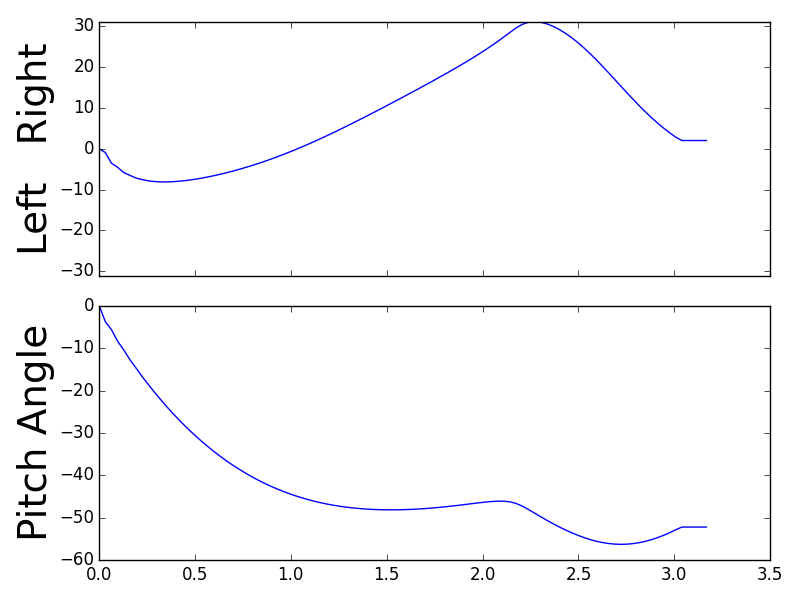
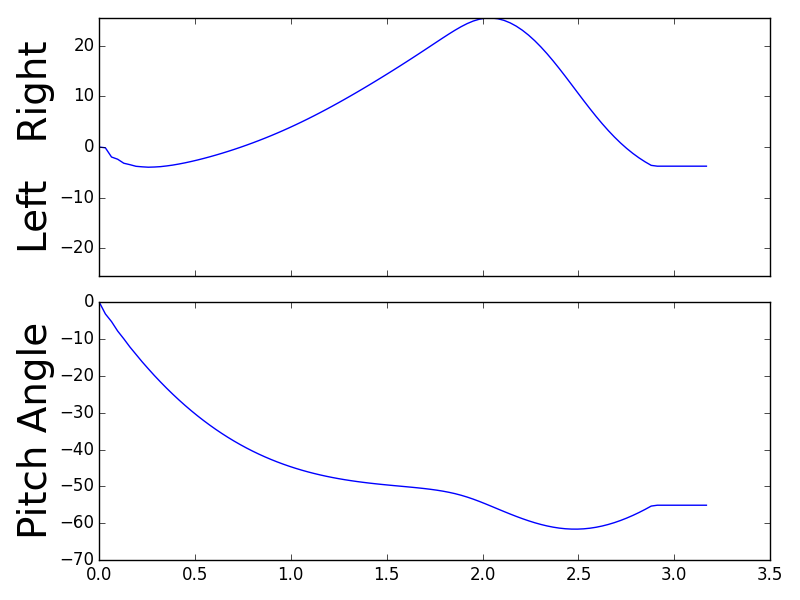
found two bugs that were causing flights to be incorrect. Missing factor of 10 in CR1x and wrong sign in the equation for CM where CM0 was used

diff --git a/Animation/animation_routines.py b/Animation/animation_routines.py
@@ -1,44 +1,8 @@
 import numpy as np
 import matplotlib.animation as animation
 import matplotlib.pyplot as plt
+import matplotlib as mpl
 from mpl_toolkits.mplot3d import Axes3D
-
-def make_plots(positions, n_times):
-	print "\nNow running animation routines"
-
-	#Parse out all of the coordinates from the positions array
-	t = positions[:,0]
-	x = positions[:,1]
-	y = positions[:,2]
-	z = positions[:,3]
-	vx = positions[:,4]
-	vy = positions[:,5]
-	vz = positions[:,6]
-	phi = positions[:,7]
-	theta = positions[:,8]
-	phiDot = positions[:,9]
-	thetaDot = positions[:,10]
-	gammaDot = positions[:,11]
-	gamma = positions[:,12]
-
-	#Find the indices where the disc is still in the air
-	in_air_indexes = np.where(z>0)
-	print "Useful indicies: ",in_air_indexes[0][0]," through ",in_air_indexes[0][-1]
-
-	#for i in xrange(0,len(in_air_indexes[0])):
-	for i in xrange(0,len(t)):
-		#print x[i],y[i],z[i],t[i]
-		#print phi[i],theta[i]
-		print positions[i]
-
-	#Plot Z vs X
-	#plot_Z_vs_X(x,z,in_air_indexes)
-
-	#Plot phi(t) and theat(t)
-	#plot_angles(phi,theta,t,in_air_indexes)
-
-	#End the plotting
-	return
 
 def plot_Z_vs_X(x,z,ind):
 	print "\tPlotting Z vs X"
@@ -46,25 +10,74 @@ def plot_Z_vs_X(x,z,ind):
 	ax1 = plt.subplot(111)
 	ax1.plot(x[ind],z[ind])
 	ax1.set_ylim(0,max(z[ind]))
+	ax1.set_xlabel("X (m)")
+	ax1.set_ylabel("Z (m)")
+	plt.show()
+	return
+
+def plot_X_vs_Y(x,y,ind):
+	print "\tPlotting Y vs X"
+	fig = plt.figure()
+	ax1 = plt.subplot(111)
+	ax1.plot(x[ind],y[ind])
+	ax1.set_ylim(0,max(y[ind]))
+	ax1.set_xlabel("X (m)")
+	ax1.set_ylabel("Y (m)")
 	plt.show()
 	return
 
 def plot_angles(phi,theta,t,ind):
 	print "\tPlotting phi(t) and theta(t)"
-	radians = np.pi/180. #used to convert to radians
-	degrees = 180./np.pi #used to convert to degrees
+	max_phi = max(np.fabs(phi[ind]))
+	max_theta = max(np.fabs(theta[ind]))
 
 	fig = plt.figure()
 	plt.subplots_adjust(hspace=0.001)
 
 	ax1 = plt.subplot(211)
-	ax1.plot(t[ind],phi[ind]*degrees)
+	ax1.plot(t[ind],phi[ind])
 	ax1.set_xticklabels([])
-	ax1.set_ylim(-180,180)
+	ax1.set_ylim(-max_phi,max_phi)
+	ax1.set_xlabel("Time (s)")
+	ax1.set_ylabel(r"$\phi(t)$")
 
 	ax2 = plt.subplot(212)#,sharex=ax1)
-	ax2.plot(t,theta*degrees)
-	ax2.set_ylim(-90,90)
+	ax2.plot(t[ind],theta[ind])
+	ax2.set_ylim(-max_theta,max_theta)
+	ax2.set_xlabel("Time (s)")
+	ax2.set_ylabel(r"$\theta(t)$")
+
 	fig.tight_layout()
+	plt.show()
+	return
+
+def update_3D_trajectory(num,traj_lines,lines):
+	for line, data in zip(lines,traj_lines):
+		line.set_data(data[0:2,:num])
+		line.set_3d_properties(data[2,:num])
+	return line
+
+#This creates a 3D trajectory of the throw
+def plot_3D_trajectory(x,y,z,nsteps):
+	print "\tPlotting 3D trajectory"
+	mpl.rcParams['legend.fontsize'] = 10
+	fig = plt.figure()
+	ax = fig.gca(projection='3d')
+	ax.set_xlim3d(min(x),max(x))
+	ax.set_ylim3d(min(y),max(y))
+	ax.set_zlim3d(0,max(z))
+	fig.tight_layout()
+	#The next line plots the trajectory immediately
+	#full_line = ax.plot(x,y,z,label="Flight path",c='pink')
+	lines = [ax.plot(x,y,z,label="Flight Path",c="b")[0],\
+			 ax.plot(x,y,z*0,c="g",linestyle='--')[0],\
+			 ax.plot(x,y*0+max(y),z,c="r",linestyle=":")[0]]
+	ax.set_xlabel('X (m)')
+	ax.set_ylabel('Y (m)')
+	ax.set_zlabel('Z (m)')
+	trajectory = np.array([[x,y,z],[x,y,z*0],[x,y*0+max(y),z]])
+	lines_animation = animation.FuncAnimation(fig,update_3D_trajectory,\
+			nsteps,fargs=(trajectory,lines),interval=0.0,blit=False)
+	#lines_animation.save('example_throw.gif',fps=30)
 	plt.show()
 	return

diff --git a/src/equations_of_motion.c b/src/equations_of_motion.c
@@ -40,6 +40,10 @@ void add(double*A,double *B,double *C){
   return;
 }
 
+void print_vec(double*A){
+  printf("A[0]=%e\tA[1]=%e\tA[2]=%e\tlen=%e\n",A[0],A[1],A[2],sqrt(dot(A,A)));
+}
+
 void equations_of_motion(double*positions,double*derivs,
 			    double t,
 			    double*coeffs){
@@ -99,16 +103,16 @@ void equations_of_motion(double*positions,double*derivs,
   //Find the velocity components in the body frame
   double v[]={vx,vy,vz};
   double v_dot_C3 = dot(v,C3);
-  double v_plane[] = {v[0]*(1-v_dot_C3),v[1]*(1-v_dot_C3),v[2]*(1-v_dot_C3)};
+  double v_plane[] = {v[0]-C3[0]*v_dot_C3, v[1]-C3[1]*v_dot_C3, v[2]-C3[2]*v_dot_C3};
 
   //Find the length of these various velocities
   double norm_v_plane = sqrt(dot(v_plane,v_plane));
   double norm_v = sqrt(dot(v,v));
-  double norm_vp = sqrt(dot(v_plane,v_plane));
+  //double norm_vp      = sqrt(dot(v_plane,v_plane));
 
   //Find the unit vectors for various directions
   double v_hat[] = {v[0]/norm_v,v[1]/norm_v,v[2]/norm_v};
-  double vp_hat[] = {v_plane[0]/norm_vp,v_plane[1]/norm_vp,v_plane[2],norm_vp};
+  double vp_hat[] = {v_plane[0]/norm_v_plane,v_plane[1]/norm_v_plane,v_plane[2]/norm_v_plane};
   double ulat[3];
   cross(C3,vp_hat,ulat);
 
@@ -124,13 +128,14 @@ void equations_of_motion(double*positions,double*derivs,
   double z_C_hat[] = {C3[0],C3[1],C3[2]};
 
   //Calculate the lift force
-  double Flift_amp = CL(alpha,CL0,CL1)*Area*rho*dot(v,v)/2.;
+  double aerodynamic_Force_amp = Area*rho*dot(v,v)/2;
+  double Flift_amp = CL(alpha,CL0,CL1)*aerodynamic_Force_amp;
   double Flift[3];
   cross(v_hat,y_C_hat,Flift);
   Flift[0] = Flift[0]*Flift_amp; Flift[1] = Flift[1]*Flift_amp; Flift[2] = Flift[2]*Flift_amp;
 
   //Calculate the drag force
-  double Fdrag_amp = CD(alpha,CD0,CD1)*Area*rho*dot(v,v)/2.;
+  double Fdrag_amp = CD(alpha,CD0,CD1)*aerodynamic_Force_amp;
   double Fdrag[]={-Fdrag_amp*v_hat[0],-Fdrag_amp*v_hat[1],-Fdrag_amp*v_hat[2]};
 
   //Calculate the gravitational force
@@ -180,7 +185,7 @@ void equations_of_motion(double*positions,double*derivs,
   for(i=0;i<3;i++){
     temp1 = 0;
     temp2 = 0;
-    for(j=0;j<3;j++){//{Tnc}^T dot w_in_C
+    for(j=0;j<3;j++){//Tnc dot tau_x(y)_body
       temp1+= Tnc[i][j] * tau_x[j];
       temp2+= Tnc[i][j] * tau_y[j];
     }
@@ -189,8 +194,9 @@ void equations_of_motion(double*positions,double*derivs,
   }
 
   //Calculate the total torque (aka moment) in the inertial frame
-  double tau_total[] = {tau_x_N[0]+tau_y_N[0],
-    tau_x_N[1]+tau_y_N[1],
+  double tau_total[] = {
+    tau_x_N[0]+tau_y_N[0]+tau_z_N[0],
+    tau_x_N[1]+tau_y_N[1]+tau_z_N[1],
     tau_x_N[2]+tau_y_N[2]+tau_z_N[2]};
 
   //If we want, set the torques all to 0

diff --git a/Animation/driver_interface_animation.py b/Animation/driver_interface_animation.py
@@ -15,18 +15,22 @@ def get_positions(initial_positions,coeffs):
 	coeffs = np.array(coeffs, dtype=np.double).copy()
 
 	#Convert the initial angles and angular velocities in degrees to radians
-	radians = np.pi/180.
-	initial_positions[7:] = initial_positions[7:]*radians
-	print initial_positions
+	radians = np.pi/180. #used to convert to radians
+	degrees = 180./np.pi #used to convert to degrees
+	initial_positions[6:] = initial_positions[6:]*radians
 
 	#Animations shouldn't have specified flight times,
 	#but since driver() takes one we specify a flight time
 	#that is way longer than anything we would expect
 	#a reasonable throw to take
-	flight_time = 1.0 #seconds
+	flight_time = 3.2 #seconds
+
+	#Set the timestep
+	#In the MCMC this will be smaller by a factor of at least 10
+	timestep = 0.01
 
 	#Number of time steps
-	n_times = 20
+	n_times = int(flight_time/timestep)
 
 	#Load the driver library and its funcitons
 	#Then specify the arguement and return types
@@ -49,9 +53,10 @@ def get_positions(initial_positions,coeffs):
 	co_out = coeffs.ctypes.data_as(ctypes.POINTER(ctypes.c_double))
 	ap_out = all_positions.ctypes.data_as(ctypes.POINTER(ctypes.c_double))
 
-	#Call the driver
+	#Call the driver and change back to degrees
 	driver(ip_out,co_out,flight_time,n_times,ap_out)
 	all_positions = np.array(ap_out[0:n_times*13]).reshape((n_times,13))
+	all_positions[:,6:]*=degrees
 
 	#Call the cleanup
 	#This is unnecessary since all_positions is declared in python

diff --git a/Old_Python_Animation/Animation.py b/Old_Python_Animation/Animation.py
@@ -84,7 +84,7 @@ def main():
     speed0 = 14.0    #m/s; initial speed
     phi0  = 0.0   #degrees; roll angle (+ means OI BH/IO FH, - is opposite)
     tht0 = 0.0       #degrees; polar angle tilt (- means the throw is airbounce-y)
-    fpAng0 = 5.0       #degrees; flight path angle between v and x-lab
+    fpAng0 = 0.0       #degrees; flight path angle between v and x-lab
     gamDot0 = -50.0    #rad/s; spin on the disc (- is BH, + is FH)
     xyang = 00.0     #angle between x-lab axis and velocity. This is useful for plotting
     tf = 3.2  #s; final time
@@ -281,7 +281,6 @@ def eqOfMotion(params,t):
     vp = v - C3*vC3
 
     #Calculate the angle of attack, alpha (alf)
-    #TOM: I THINK that I want -atan, but it might be +atan
     alf = -math.atan(vC3/np.linalg.norm(vp))
 
     #Find some unit vectors.
@@ -446,7 +445,7 @@ def plotTrajectory(solution,nsteps):
     lines_ani = animation.FuncAnimation(fig, updateTrajectory,
                                        nsteps,fargs=(trajectory,lines),
                                        interval=0.0001,blit=False)
-
+    print "nsteps = ",nsteps
     #lines_ani.save(throwname+'throw.gif',fps=20)
     plt.show()
 

diff --git a/Animation/make_visualizations.py b/Animation/make_visualizations.py
@@ -1,0 +1,42 @@
+import numpy as np
+import matplotlib.animation as animation
+import matplotlib.pyplot as plt
+from mpl_toolkits.mplot3d import Axes3D
+import animation_routines
+
+def make_plots(positions, n_times):
+	print "\nNow running animation routines"
+
+	#Parse out all of the coordinates from the positions array
+	t = positions[:,0]
+	x = positions[:,1]
+	y = positions[:,2]
+	z = positions[:,3]
+	vx = positions[:,4]
+	vy = positions[:,5]
+	vz = positions[:,6]
+	phi = positions[:,7]
+	theta = positions[:,8]
+	phiDot = positions[:,9]
+	thetaDot = positions[:,10]
+	gammaDot = positions[:,11]
+	gamma = positions[:,12]
+
+	#Find the indices where the disc is still in the air
+	in_air_indexes = np.where(z>0)
+	print "\tUseful indicies: ",in_air_indexes[0][0]," through ",in_air_indexes[0][-1]
+
+	#Plot Z vs X
+	#animation_routines.plot_Z_vs_X(x,z,in_air_indexes)
+
+	#Plot X vs Y
+	#animation_routines.plot_X_vs_Y(x,y,in_air_indexes)
+
+	#Plot phi(t) and theat(t)
+	animation_routines.plot_angles(phi,theta,t,in_air_indexes)
+
+	#Do a 3D plot
+	animation_routines.plot_3D_trajectory(x,y,z,len(in_air_indexes[0]))
+
+	#End the plotting
+	return

diff --git a/src/coefficients.c b/src/coefficients.c
@@ -38,13 +38,13 @@ double CD(double a,double CD0,double CD1){
 double CRx(double wx,double CR1x){
   //Torque in the x-body direction (roll moment)
   //functoon of x-body angular velocity (roll angle)
-  return -CR1x*wx; //Hummell (2003) long flight
+  return -CR1x*wx;
 }
 
 double CRz(double wz,double CR1z){
-  //Torque in the x-body direction (roll moment)
+  //Torque in the z-body direction (roll moment)
   //function of z-body angular velocity (spin)
-  return -CR1z*wz;  //Hummell (2003)
+  return -CR1z*wz;
 }
 
 double CR(double wx,double wz,double CR1x,double CR1z){
@@ -66,7 +66,7 @@ double CMy(double wy,double CM1y){
 
 double CM(double a,double wy,double CM0,double CM1a,double CM1y){
   //Total y-body torque
-  return CM0 + CMa(a,CM1a) + CMy(wy,CM1y);
+  return -CM0 + CMa(a,CM1a) + CMy(wy,CM1y);
 }
 
 double CNz(double wz,double CN1z){

diff --git a/Animation/FrisPy_Animation.py b/Animation/FrisPy_Animation.py
@@ -1,7 +1,7 @@
 from setup import setup,config
 import ctypes
 import numpy as np
-import animation_routines
+import make_visualizations
 import driver_interface_animation
 
 def FrisPy_Animation(config_filename):
@@ -32,6 +32,6 @@ def FrisPy_Animation(config_filename):
 	positions, n_times = driver_interface_animation.get_positions(initial_conditions,params)
 
 	#Pass the positions and number of times to the animation routines
-	animation_routines.make_plots(positions,n_times)
+	make_visualizations.make_plots(positions,n_times)
 
 	print "\nCompleting Animation\n"

diff --git a/src/rk4.c b/src/rk4.c
@@ -47,9 +47,9 @@ void rk4(double*positions,double dt,double t,double*coeffs){
 	equations_of_motion(temp,k4,t+dt,coeffs);
 
 	//Update the positions
-	for (i=0;i<12;i++)
+	for (i=0;i<12;i++){
 		positions[i] = positions[i] + dt/6.*(k1[i]+2.*k2[i]+2.*k3[i]+k4[i]);
-	
+	}
 	//End rk4
 	return;
 }

diff --git a/src/driver.c b/src/driver.c
@@ -25,7 +25,7 @@ void driver(void*initial_positionav,void*coeffsav,double flight_time,int n_times
 	//Calculate the time step
 	double dt = flight_time/n_times;
 
-	printf("Timestep = %e\n",dt);
+	printf("\tTimestep = %e\n",dt);
 
 	//Declare the current time
 	double t=0;
